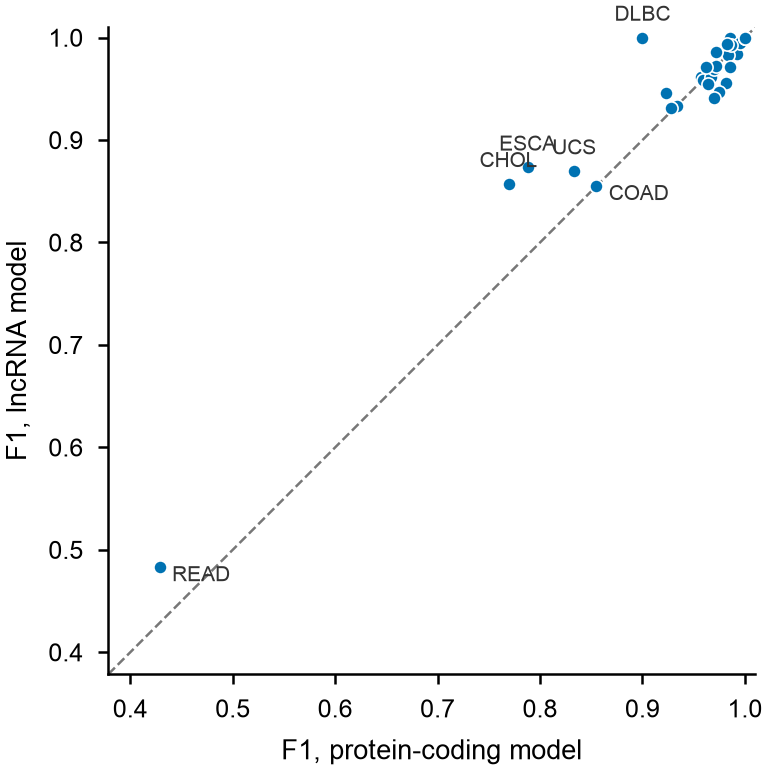
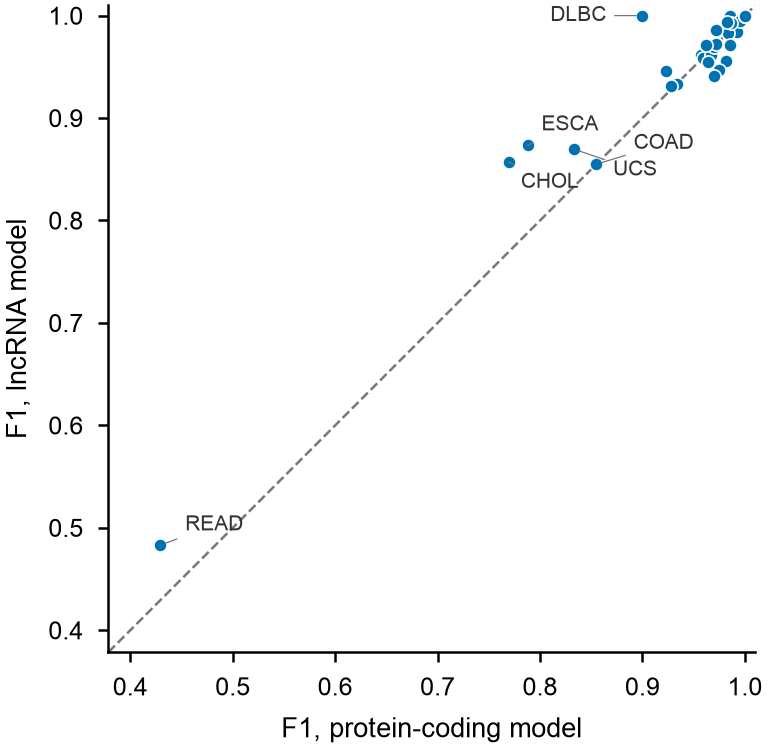
Figure 4: spread the per-class labels with leader lines

diff --git a/scripts/06_figures.py b/scripts/06_figures.py
@@ -169,24 +169,27 @@ def fig_per_class(metrics: pd.DataFrame) -> None:
     lo = max(0, df.min().min() - 0.05)
     ax.plot([lo, 1.01], [lo, 1.01], color=INK_3, lw=0.6, ls="--", zorder=1)
     ax.scatter(df.protein_coding, df.lncRNA, s=10, color=BLUE, edgecolor="white", lw=0.4, zorder=3)
-    for name, r in df.iterrows():
-        if r.min() < 0.9 or abs(r.lncRNA - r.protein_coding) > 0.05:
-            # label above the point when another labelled point sits just to the right
-            others = df.drop(name)
-            crowded = (
-                (others.protein_coding.between(r.protein_coding, r.protein_coding + 0.07))
-                & ((others.lncRNA - r.lncRNA).abs() < 0.03)
-            ).any()
-            ax.annotate(
-                name,
-                (r.protein_coding, r.lncRNA),
-                xytext=(0, 3) if crowded else (3, -2),
-                ha="center" if crowded else "left",
-                va="bottom" if crowded else "center",
-                textcoords="offset points",
-                fontsize=5,
-                color=INK_2,
-            )
+    labelled = df[(df.min(axis=1) < 0.9) | ((df.lncRNA - df.protein_coding).abs() > 0.05)]
+    pts = labelled[["protein_coding", "lncRNA"]].to_numpy()
+    # labels start to the right of their point and are pushed apart; a thin leader line
+    # connects any label that had to move
+    order = np.argsort(pts[:, 0])
+    offsets = np.zeros_like(pts)
+    offsets[order] = [(0.025, 0.02 if i % 2 == 0 else -0.02) for i in range(len(order))]
+    offsets[pts[:, 1] > 0.95] = (-0.09, 0.0)  # near the dense top-right corner: label leftwards
+    pos = _spread_labels(pts + offsets, box=(0.09, 0.026))
+    for name, pt, xy in zip(labelled.index, pts, pos, strict=True):
+        ax.annotate(
+            name,
+            pt,
+            xytext=xy,
+            textcoords="data",
+            fontsize=5,
+            color=INK_2,
+            ha="left",
+            va="center",
+            arrowprops={"arrowstyle": "-", "lw": 0.3, "color": INK_3, "shrinkA": 0, "shrinkB": 1.5},
+        )
     ax.set(
         xlim=(lo, 1.01),
         ylim=(lo, 1.01),
